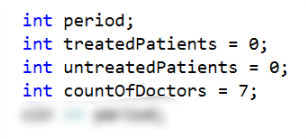
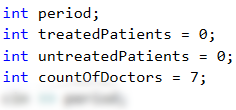
Fixed pictures size and quality.

diff --git a/chapter-05-loops-exam-problems.md b/chapter-05-loops-exam-problems.md
@@ -578,7 +578,7 @@
 
 Декларираме си нужните променливи, например: **`countOfLoads`** – броя на товарите за превоз (прочитаме ги от конзолата), **`sumOfTons`** – сумата от тонажа на всички товари, **`microbusTons`**, **`truckTons`**, **`trainTons`** – променливи, пазещи сумата от тонажа на товарите, превозвани съответно с микробус, камион и влак.
 
-Ще ни трябва **`for` цикъл** от **`0`** до **`countOfLoads-1`**, за да обходим всички товари. За всеки товар **прочитаме теглото му** (в тонове) от конзолата и го запазваме в променлива, например **`tons`**. Прибавяме към сумата от тонажа на всички товари (**`sumOfTons`**) теглото на текущия товар (**`tons`**). След като сме прочели теглото на текущия товар, **трябва да определим кое превозно средство ще се ползва за него** (микробус, камион или влак). За целта ще ни трябват **`if-else`** проверки:
+Ще ни трябва **`for` цикъл** от **`0`** до **`countOfLoads`**, за да обходим всички товари. За всеки товар **прочитаме теглото му** (в тонове) от конзолата и го запазваме в променлива, например **`tons`**. Прибавяме към сумата от тонажа на всички товари (**`sumOfTons`**) теглото на текущия товар (**`tons`**). След като сме прочели теглото на текущия товар, **трябва да определим кое превозно средство ще се ползва за него** (микробус, камион или влак). За целта ще ни трябват **`if-else`** проверки:
 
  * Ако стойността на променливата **`tons`** е **по-малка от 3**, увеличаваме стойността на променливата **`microbusTons`** със стойността на **`tons`**:
  
